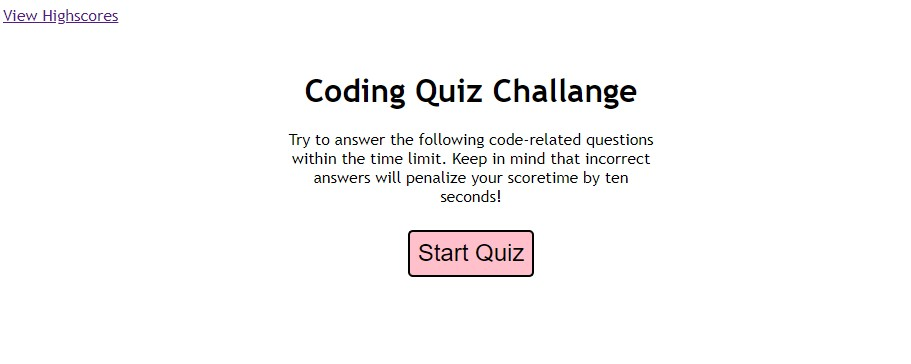
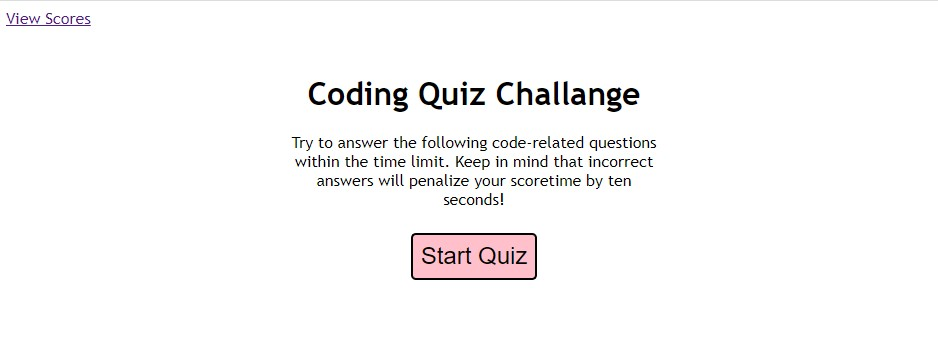
update files

diff --git a/assets/js/script.js b/assets/js/script.js
@@ -3,19 +3,63 @@ var divContainer = document.getElementById('container');
 var divResultBox = document.getElementById('resultBox');
 var divQuizBox = document.getElementById('quizBox');
 var divUserScore = document.getElementById('userScore');
-var divHighScore = document.getElementById('divHighScore');
+var divSavedScore = document.getElementById('divSavedScore');
 var divStartBox = document.getElementById('startBox');
 
-
 var startBtn = document.getElementById('startButton');
-var highScoreBtn = document.getElementById('highScore');
-var userInitailsBtn = document.getElementById('userInitails');
+var viewScoreBtn = document.getElementById('viewScore');
+var savedInitailsBtn = document.getElementById('savedInitailsBtn');
+var savedScore = document.getElementById('savedScore');
+var finalScore = document.querySelector('#finalScore');
 
 var timeLeft = 75;
 
 // Quiz variables
 var questionsIndex = 0;
 var score = 0;
+
+divStartBox.style.display = 'block';
+divUserScore.style.display = 'none';
+divSavedScore.style.display = 'none';
+
+
+//go to the landing msg
+document.getElementById('goBack').addEventListener('click', function() {
+    divStartBox.style.display = 'block'
+    divSavedScore.style.display = 'none';
+});
+
+//clear saved score
+document.getElementById('clearScore').addEventListener('click', function() {
+    score = 0;
+    showScore();
+});
+
+//display high score
+function showScore() {
+    divStartBox.style.display = 'none'
+    divQuizBox.style.display = 'none';
+    divUserScore.style.display = 'none';
+    divSavedScore.style.display = 'block';
+    savedScore.textContent = "User: " + document.getElementById('initials').value + " Scored: " + score;
+}
+viewScoreBtn.addEventListener('click', showScore);
+
+//save user initials
+function saveUserInitailsScore() {
+    divStartBox.style.display = 'none';
+    divQuizBox.style.display = 'none';
+    divUserScore.style.display = 'none';
+    divSavedScore.style.display = 'block';
+
+    savedScore.textContent = "User: " + document.getElementById('initials').value + " Scored: " + score;
+    questionsIndex = 0;
+    score = 0;
+    divCountdown.textContent = '';
+    timeLeft = null;
+}
+savedInitailsBtn.addEventListener('click', saveUserInitailsScore);
+
 
 // creating an array of questions and answers
 const questions = [{
@@ -50,60 +94,25 @@ const questions = [{
     // }
 ];
 
-divUserScore.style.display = 'none';
-divHighScore.style.display = 'none'
-
-//go to the landing msg
-document.getElementById('goBack').addEventListener('click', function() {
-    divStartBox.style.display = 'block'
-    divHighScore.style.display = 'none';
-});
-
-//clear high score
-document.getElementById('clearScore').addEventListener('click', function() {
-    score = 0;
-    divStartBox.style.display = 'block'
-    divHighScore.style.display = 'none';
-});
-
-//display high score
-function showHighScore() {
-    divStartBox.style.display = 'none'
-    divHighScore.style.display = 'block';
-    //document.getElementById('HighScore').innerHTML = saveUserInitails;
-}
-highScoreBtn.addEventListener('click', showHighScore);
-
-function saveUserInitailsScore() {
-    console.log(document.getElementById('initials').value);
-    document.getElementById('HighScore').innerHTML = document.getElementById('initials').value;
-    divUserScore.style.display = 'none';
-    divHighScore.style.display = 'block';
-}
-userInitailsBtn.addEventListener('click', saveUserInitailsScore);
-
 // Timer that counts down from 75
-function countdown(timeLeft) {
+function countdown() {
 
     var timeInterval = setInterval(function() {
 
-        if (timeLeft > 0) {
+        if ((timeLeft > 0)) {
             divCountdown.textContent = 'Time: ' + timeLeft;
             timeLeft--;
+
         } else if (timeLeft === 0) {
             clearInterval(timeInterval);
-            gameOver();
-        } else if (questionsIndex === (questions.length - 1)) {
+            divQuizBox.style.display = 'none';
+            divUserScore.style.display = 'block';
+            divCountdown.textContent = '';
+        } else {
             clearInterval(timeInterval);
         }
     }, 1000);
 }
-
-function gameOver() {
-    saveUserInitailsScore();
-}
-
-
 
 function showQuestions(question, divQuizBox) {
     //store the output and the answer choices
@@ -128,15 +137,15 @@ function showQuestions(question, divQuizBox) {
     divQuizBox.innerHTML = output.join('');
 }
 
-
-
 function startButtonClick(e) {
     e.preventDefault;
     e.stopPropagation;
 
-    document.querySelector('#startBox').style.display = 'none';
+    timeLeft = 75;
+    divStartBox.style.display = 'none';
+    divQuizBox.style.display = 'block';
 
-    countdown(timeLeft);
+    countdown();
     addQuestions();
 }
 
@@ -153,8 +162,7 @@ function addQuestions() {
         divQuizBox.style.display = 'none';
         divUserScore.style.display = 'block';
 
-        document.querySelector('#finalScore').textContent += score;
-
+        finalScore.textContent = "Your final score is " + score;
     }
 }
 
@@ -172,14 +180,21 @@ function DisplayResult() {
     var userInput = this.value;
 
     if (userInput == questions[questionsIndex].correctAnswer) {
-        divResultBox.innerHTML = '<hr> Correct';
+        divResultBox.innerHTML = '<hr> Correct!';
         score++;
 
     } else {
-        countdown(timeLeft - 10)
-        divResultBox.innerHTML = '<hr> Wrong';
-    }
+        //subtract 10 secounds for wrong answer
+        if (timeLeft >= 10) {
+            timeLeft = timeLeft - 10;
+            divResultBox.innerHTML = '<hr> Wrong!';
+        } else if (timeLeft < 10) {
+            divUserScore.style.display = 'block';
+            divQuizBox.style.display = 'none';
+            timeLeft = 0;
+        }
 
+    }
     stateChange(-1);
     questionsIndex++;
 }

diff --git a/index.html b/index.html
@@ -14,7 +14,7 @@
     <!-- Div header -->
     <header class="header">
         <!-- link to high scores -->
-        <a href="#" id="highScore">View Highscores</a>
+        <a href="#" id="viewScore">View Scores</a>
         <!-- timer -->
         <div id="countdown"></div>
     </header>
@@ -37,20 +37,20 @@
         <div id="userScore">
             <span id="resultSpan">All done!</span>
             <br>
-            <span id="finalScore">Your final score is </span>
+            <span id="finalScore"></span>
             <br>
             <label for="initials">Enter initials: 
             <input type="text" id="initials">
-            <input type="submit" value="Submit" id="userInitails">
+            <input type="submit" value="Submit" id="savedInitailsBtn">
           </label>
         </div>
-        <div id="divHighScore">
-            <span id="headerSpan">High scores</span>
+        <div id="divSavedScore">
+            <span id="headerSpan">Saved Scores</span>
             <br>
-            <span id="HighScore"></span>
+            <span id="savedScore"></span>
             <br>
             <input type="button" value="Go Back" id="goBack">
-            <input type="button" value="Clear high scores" id="clearScore">
+            <input type="button" value="Clear saved scores" id="clearScore">
         </div>
     </div>
     <script src="./assets/js/script.js"></script>

diff --git a/assets/css/style.css b/assets/css/style.css
@@ -68,7 +68,7 @@
         font-size: 300%;
     }
     
-    #HighScore {
+    #savedScore {
         font-weight: bold;
         font-size: 200%;
         background-color: azure;
